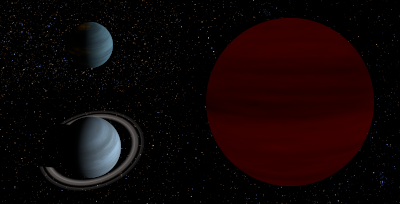
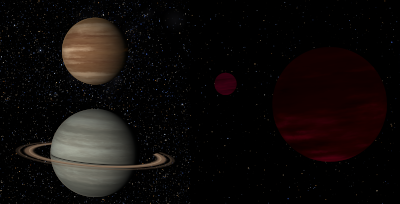
Try to get some updates in
This project has been inactive for too long; I've tagged some systems as needing updates...

diff --git a/nearby.html b/nearby.html
@@ -35,10 +35,10 @@ Other addons (some incorporated into this version): <a href="https://celestiapro
 <p class="small"><a href="files/proximabd.png"><img src="files/proximabd_thumb.png" width="400"></a>
 <br><i>The confirmed planets of the system, Proxima b & d.</i></p>
 <h2 id="002">Barnard's Star</h2>
-<p><b>6.0 ly | 1 star</b><br>
-Barnard's Star is a red dwarf star that is the second-nearest star system to Sol, and has the highest proper motion of any star. It has had claims of planet detections by both astrometry (in 1963) and radial velocity (in 2018) that were later disproven. This addon adds a texture for the star itself.<br>
+<p><b>6.0 ly | 1 star | 1 planet</b><br>
+Barnard's Star is a red dwarf star that is the second-nearest star system to Sol, and has the highest proper motion of any star. It hosts at least one sub-Earth mass planet, with additional candidates suspected; previously, it was subject to multiple claims of planets that were later disproven. This addon adds a texture for the star itself.<br>
 Authors: <b>Gurren Lagann</b> (<a href="https://celestiaproject.space/forum/viewtopic.php?p=162105#p162105">original release</a>)<br>
-<b><a href="https://drive.google.com/file/d/1KjWozdtMgQUCft1NzDgGy2GNw5bDWZka/view">Download</a></b> - <span class="green">Last updated 2023-10-08</span></p>
+<b><a href="https://drive.google.com/file/d/1KjWozdtMgQUCft1NzDgGy2GNw5bDWZka/view">Download</a></b> - <span class="green">Last updated 2023-10-08, needs update</span></p>
 <h2 id="003">Luhman 16</h2>
 <p><b>6.5 ly | 2 brown dwarfs</b><br>
 Luhman 16 is a binary brown dwarf system, containing the nearest brown dwarfs to Sol. The system seems to be fairly young, with an age of about 510 million years. Observations using the Very Large Telescope have allowed the creation of a <a href="https://www.eso.org/public/images/eso1404g/">map</a> of Luhman 16 B.<br>
@@ -88,10 +88,10 @@ Authors: <b>Gurren Lagann</b> (<a href="https://celestiaproject.space/forum/view
 <b><a href="https://drive.google.com/file/d/1wyRuJds1prS5Azo0syzqs1lyu0PEf5QC/view">Download</a></b> | <a href="https://celestia.mobi/resources/item?item=60A874BB-EE54-E2DA-6C41-2489DB599A18">celestia.mobi</a> - <span class="green">Last updated 2024-09-08</span></p>
 <a href="files/ross128b.png"><img src="files/ross128b_thumb.png" width="400"></a>
 <h2 id="017">Gliese 725 / Struve 2398</h2>
-<p><b>11.5 ly | 2 stars</b><br>
-Gliese 725, also known as Struve 2398, is a binary star system consisting of two red dwarfs. The secondary star is likely orbited by two planets, found by a preliminary survey in 2019. <i>(Trolligi's textures set as default; image using alternate surfaces.)</i><br>
+<p><b>11.5 ly | 2 stars | 1 planet</b><br>
+Gliese 725, also known as Struve 2398, is a binary star system consisting of two red dwarfs. The primary star hosts a super-Earth; the secondary star may also host two planet candidates. <i>(Trolligi's textures set as default; image using alternate surfaces.)</i><br>
 Authors: <b>SevenSpheres</b>, <b>Trolligi</b> (<a href="https://celestiaproject.space/forum/viewtopic.php?p=158545#p158545">original release</a>)<br>
-<b><a href="https://drive.google.com/file/d/1CJZqWV5y5B1FO7z9y4_2fk2lby3Kde3W/view">Download</a></b> | <a href="https://celestia.mobi/resources/item?item=908BB22C-FC41-7A07-F2BE-4E54C452026F">celestia.mobi</a> - <span class="green">Last updated 2022-08-09</span></p>
+<b><a href="https://drive.google.com/file/d/1CJZqWV5y5B1FO7z9y4_2fk2lby3Kde3W/view">Download</a></b> | <a href="https://celestia.mobi/resources/item?item=908BB22C-FC41-7A07-F2BE-4E54C452026F">celestia.mobi</a> - <span class="green">Last updated 2022-08-09, needs update</span></p>
 <a href="files/gj725.png"><img src="files/gj725_thumb.png" width="400"></a>
 <h2 id="018">Gliese 15 / Groombridge 34</h2>
 <p><b>11.6 ly | 2 stars | 2 planets</b><br>
@@ -216,10 +216,10 @@ Authors: <b>Trolligi</b> (<a href="https://celestiaproject.space/forum/viewtopic
 <b><a href="https://drive.google.com/file/d/1k02qmokMTSfzZV4Cdhqh0RP_PDklqz6z/view">Download</a></b> | <a href="https://celestia.mobi/resources/item?item=D189568B-E8D5-4524-AD11-91C6BFC8C2A4">celestia.mobi</a> - <span class="green">Last updated 2022-12-21</span></p>
 <a href="files/gj251b.png"><img src="files/gj251b_thumb.png" width="400"></a>
 <h2 id="075">Gliese 229</h2>
-<p><b>18.8 ly | 1 star | 1 brown dwarf | 2 planets</b><br>
-Gliese 229 is a red dwarf star with a brown dwarf companion, which was one of the first brown dwarfs discovered, and the first within 10 parsecs. Two Neptunian planets have since been discovered around the primary star, with the inner one in the habitable zone.<br>
+<p><b>18.8 ly | 1 star | 2 brown dwarfs | 2 planets</b><br>
+Gliese 229 is a red dwarf star with a pair of brown dwarf companions. Gliese 229 B was one of the first brown dwarfs discovered, and the first within 10 parsecs, but was only resolved into a binary much later in 2024. The primary star hosts two Neptunian planets, with the inner one in the habitable zone.<br>
 Authors: <b>Trolligi</b> (<a href="https://celestiaproject.space/forum/viewtopic.php?p=158695#p158695">original release</a>)<br>
-<b><a href="https://drive.google.com/file/d/1aVJiHa8f8K25u7rw4OGegvDbpzbjZk6l/view">Download</a></b> | <a href="https://celestia.mobi/resources/item?item=90F7F5A6-258E-4188-A223-C512D8F3EFB5">celestia.mobi</a> - <span class="green">Last updated 2022-12-21</span></p>
+<b><a href="https://drive.google.com/file/d/1aVJiHa8f8K25u7rw4OGegvDbpzbjZk6l/view">Download</a></b> | <a href="https://celestia.mobi/resources/item?item=90F7F5A6-258E-4188-A223-C512D8F3EFB5">celestia.mobi</a> - <span class="green">Last updated 2025-02-15</span></p>
 <a href="files/gj229.png"><img src="files/gj229_thumb.png" width="400"></a>
 <h2 id="082">Gliese 752 / HD 180617</h2>
 <p><b>19.3 ly | 2 stars | 1 planet</b><br>
@@ -229,9 +229,9 @@ Authors: <b>The Minmus Derp</b> (<a href="https://celestiaproject.space/forum/vi
 <a href="files/gj752ab.png"><img src="files/gj752ab_thumb.png" width="400"></a>
 <h2 id="091">82 Eridani / e Eridani</h2>
 <p><b>19.7 ly | 1 star | 3 planets</b><br>
-82 (G.) Eridani is a Sun-like star with a debris disk and several planet candidates. As of 2023, two of these planets have been definitely confirmed and a third is likely, while several previous candidates are now doubtful after non-detections.<br>
-Authors: <b>fyr02</b> (<a href="https://celestiaproject.space/forum/viewtopic.php?f=23&t=20203">original release</a>), <b>SevenSpheres</b> | Other addon: <a href="https://celestiaproject.space/forum/viewtopic.php?p=158522#p158522">Astro</a> (<a href="https://celestia.mobi/resources/item?item=0698DDE1-2C11-2D5C-70A9-6691CBA7F6C7">celestia.mobi</a>)<br>
-<b><a href="https://drive.google.com/file/d/1Ueh3ZDLPAlyq2aB3Byw-jIOrUr7g2rEN/view">Download</a></b> | <a href="https://drive.google.com/file/d/1lqXEXmKLBYYFbFzy7tJvMco8andOky-p/view">archived version</a> - <span class="green">Last updated 2023-09-01</span></p>
+82 (G.) Eridani is a Sun-like star with a debris disk and three known planets, the outermost a super-Earth or mini-Neptune on an eccentric orbit partially within the habitable zone. Other planet candidates have been proposed but are now doubtful after non-detections.<br>
+Authors: <b>fyr02</b> (<a href="https://celestiaproject.space/forum/viewtopic.php?f=23&t=20203">original release</a>), <b>SevenSpheres</b> | Other addon: <a href="https://celestiaproject.space/forum/viewtopic.php?p=158522#p158522">Astro</a><br>
+<b><a href="https://drive.google.com/file/d/1Ueh3ZDLPAlyq2aB3Byw-jIOrUr7g2rEN/view">Download</a></b> | <a href="https://celestia.mobi/resources/item?item=0698DDE1-2C11-2D5C-70A9-6691CBA7F6C7">celestia.mobi</a> - <span class="green">Last updated 2025-02-15</span></p>
 <a href="files/82eri.png"><img src="files/82eri_thumb.png" width="400"></a>
 <h2 id="094">2MASS J0136+0933</h2>
 <p><b>20.0 ly | 1 brown dwarf</b><br>
@@ -319,15 +319,15 @@ Authors: <b>SevenSpheres</b><br>
 <a href="files/gj1151c.png"><img src="files/gj1151c_thumb.png" width="400"></a>
 <h2 id="180">Gar / Gliese 486</h2>
 <p><b>26.4 ly | 1 star | 1 planet</b><br>
-Gliese 486 is a red dwarf star which hosts one known transiting hot terrestrial planet, discovered in 2021. The star and planet received the names Gar and Su in 2023.<br>
+Gliese 486 is a red dwarf star which hosts one known transiting hot terrestrial planet, discovered in 2021. Like other similar planets, there is evidence that it lacks a significant atmosphere. The star and planet received the names Gar and Su in 2023.<br>
 Authors: <b>Gurren Lagann</b> (<a href="https://celestiaproject.space/forum/viewtopic.php?p=160127#p160127">original release</a>)<br>
-<b><a href="https://drive.google.com/file/d/1qLVUbZZuOLj1QQ4eBcKLc1QQQZMGDKOQ/view">Download</a></b> | <a href="https://celestia.mobi/resources/item?item=249C5647-7260-4687-B647-30EA66362D7F">celestia.mobi</a> - <span class="green">Last updated 2023-06-07</span></p>
+<b><a href="https://drive.google.com/file/d/1qLVUbZZuOLj1QQ4eBcKLc1QQQZMGDKOQ/view">Download</a></b> | <a href="https://celestia.mobi/resources/item?item=249C5647-7260-4687-B647-30EA66362D7F">celestia.mobi</a> - <span class="green">Last updated 2023-06-07, needs update</span></p>
 <a href="files/gj486b.png"><img src="files/gj486b_thumb.png" width="400"></a>
 <h2 id="184">Gliese 300</h2>
 <p><b>26.5 ly | 1 star</b><br>
 Gliese 300 is a red dwarf star which may host a candidate planet, found by a preliminary survey in 2019.<br>
 Authors: <b>Galaxy-Leaper</b><br>
-<b><a href="https://drive.google.com/file/d/1654iyR7ZI7lG635XkpgjLYL1_k1_4L8B/view">Download</a></b> | <a href="https://celestia.mobi/resources/item?item=AE222584-8F24-4B41-8EC2-D199F748790F">celestia.mobi</a> - <span class="green">Last updated 2023-10-08</span></p>
+<b><a href="https://drive.google.com/file/d/1654iyR7ZI7lG635XkpgjLYL1_k1_4L8B/view">Download</a></b> | <a href="https://celestia.mobi/resources/item?item=AE222584-8F24-4B41-8EC2-D199F748790F">celestia.mobi</a> - <span class="green">Last updated 2025-02-15</span></p>
 <h2 id="187">Gliese 686</h2>
 <p><b>26.6 ly | 1 star | 1 planet</b><br>
 Gliese 686 is a red dwarf star which hosts one known sub-Neptune mass planet, discovered in 2019.<br>
@@ -563,9 +563,9 @@ Authors: <b>Trolligi</b> (<a href="https://celestiaproject.space/forum/viewtopic
 <li>TZ Arietis c (GJ 9066 b, <a href="https://ui.adsabs.harvard.edu/abs/2022A%26A...663A..48Q/abstract">2022A&A...663A..48Q</a>): <a href="https://drive.google.com/file/d/1ljpQmTZT4wqgSDJZcgYO6s6ppzk_EcjS/view">SevenSpheres</a></li>
 <li>Gliese 832 c (<a href="https://ui.adsabs.harvard.edu/abs/2022A%26A...664A..64G/abstract">2022A&A...664A..64G</a>): SevenSpheres (reused for <a href="https://celestiaproject.space/forum/viewtopic.php?p=159869#p159869">Ross 508 b</a>)</li>
 <li>40 Eridani Ab (<a href="https://ui.adsabs.harvard.edu/abs/2023AJ....165..176L/abstract">2023AJ....165..176L</a>): <a href="https://drive.google.com/file/d/1ljpQmTZT4wqgSDJZcgYO6s6ppzk_EcjS/view">SevenSpheres</a>, <a href="https://celestiaproject.space/forum/viewtopic.php?p=157030#p157030">trappistplanets</a> (<a href="https://celestia.mobi/resources/item?item=2AE64759-DC9F-C389-7F5B-E6993D3B73A0">celestia.mobi</a>)</li>
-<li>82 Eridani c (<a href="https://ui.adsabs.harvard.edu/abs/2023AJ....165..176L/abstract">2023AJ....165..176L</a>): <a href="https://celestiaproject.space/forum/viewtopic.php?p=148221#p148221">fyr02</a>, <a href="https://celestiaproject.space/forum/viewtopic.php?p=158522#p158522">Astro</a></li>
+<li>82 Eridani candidates (<a href="https://ui.adsabs.harvard.edu/abs/2023AJ....165..176L/abstract">2023AJ....165..176L</a>, <a href="https://ui.adsabs.harvard.edu/abs/2025A%26A...693A.297N/abstract">2025A&A...693A.297N</a>): <a href="https://celestiaproject.space/forum/viewtopic.php?p=148221#p148221">fyr02</a>, <a href="https://celestiaproject.space/forum/viewtopic.php?p=158522#p158522">Astro</a></li>
 <li>Gliese 581 d, f, g (<a href="https://ui.adsabs.harvard.edu/abs/2013ApJ...764....3R/abstract">2013ApJ...764....3R</a>, <a href="https://ui.adsabs.harvard.edu/abs/2014Sci...345..440R/abstract">2014Sci...345..440R</a>, <a href="https://ui.adsabs.harvard.edu/abs/2016A%26A...585A.144H/abstract">2016A&A...585A.144H</a>): <a href="http://www.celestiamotherlode.net/addon/addon_1561.html">John van Vliet</a> (<a href="https://celestia.mobi/resources/item?item=B7E6CD04-F54C-8CB0-3A98-1D33105CC617">celestia.mobi</a>)</li>
-<li>Gliese 880 b (<a href="https://www.aanda.org/articles/aa/full_html/2024/09/aa46570-23/aa46570-23.html">doi:10.1051/0004-6361/202346570</a>): <a href="https://celestiaproject.space/forum/viewtopic.php?p=162196#p162196">Karistus</a> (<a href="https://celestia.mobi/resources/item?item=3609FFC4-D07F-42B4-B7CB-F4D53C8D774F">celestia.mobi</a>)</li>
+<li>Gliese 880 b (<a href="https://ui.adsabs.harvard.edu/abs/2024A%26A...689A..32M/abstract">2024A&A...689A..32M</a>): <a href="https://celestiaproject.space/forum/viewtopic.php?p=162196#p162196">Karistus</a> (<a href="https://celestia.mobi/resources/item?item=3609FFC4-D07F-42B4-B7CB-F4D53C8D774F">celestia.mobi</a>)</li>
 <li>Fomalhaut b (Dagon, <a href="https://ui.adsabs.harvard.edu/abs/2020PNAS..117.9712G/abstract">2020PNAS..117.9712G</a>): <a href="https://celestiaproject.space/forum/viewtopic.php?p=141067#p141067">Gurren Lagann</a> (<a href="https://celestia.mobi/resources/item?item=A514784B-ED88-2A10-BD2F-DE786C66C5F4">celestia.mobi</a>)</li>
 <li>HD 85512 b (<a href="https://ui.adsabs.harvard.edu/abs/2023AJ....165..176L/abstract">2023AJ....165..176L</a>): <a href="http://www.celestiamotherlode.net/addon/addon_1594.html">Leif Giering</a>, <a href="https://celestiaproject.space/forum/viewtopic.php?p=148221#p148221">fyr02</a> (<a href="https://celestia.mobi/resources/item?item=C8EDBBB9-BAED-9C52-7E71-62A40C9F256E">celestia.mobi</a>)</li></ul>
 <p>An ssc file using the Timeline function to show the evolution of our understanding of the Gliese 581 system over time can be downloaded from <a href="files/gj581.ssc">this link</a>.</p>
